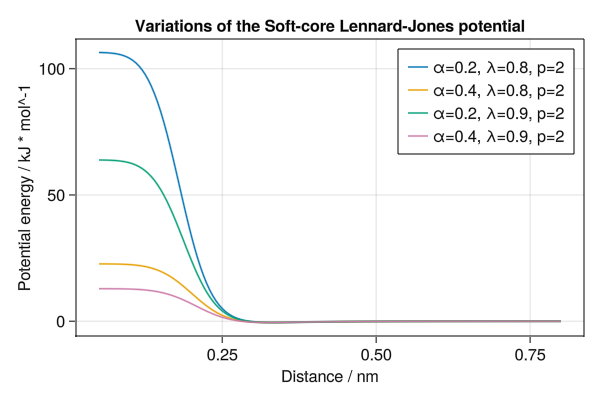
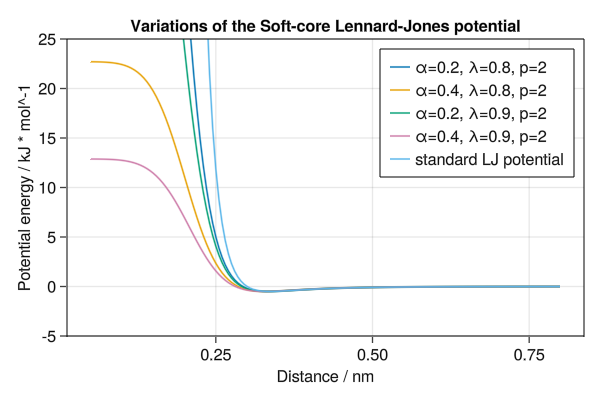
suggested changes to LJ variation example

diff --git a/docs/src/examples.md b/docs/src/examples.md
@@ -448,6 +448,10 @@ for λ in [0.8, 0.9]
     end
 end
 
+# Standard Lennard-Jones
+lines!(ax, dists, energies(0, 1, 2), label="standard LJ potential")
+
+ylims!(-5, 25)
 axislegend(position=:rt)
 save("lennard_jones_sc.png", f)
 ```
